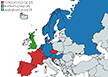
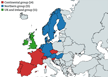
Removed GSOM

diff --git a/members/index.html b/members/index.html
@@ -494,30 +494,6 @@
 						</td>
 					</tr>
 				</table>
-				<h4 id="members-russia">
-					Russia
-				</h4>
-				<h5>
-					–  Northern European Group
-				</h5>
-				<table cellpadding="0" cellspacing="0" width="100%">
-					<tr>
-						<td valign="top" width="96"> <img alt="Julia Muvela" src="/members/photos/julia-muleva.jpg" /> </td>
-						<td valign="top" width="33%"> 
-						<dl> 
-							<dt><a href="&#109;&#97;&#105;&#108;&#116;&#111;&#58;&#109;&#117;&#108;&#101;&#118;&#97;&#64;&#103;&#115;&#111;&#109;&#46;&#115;&#112;&#98;&#117;&#46;&#114;&#117;">Julia Muleva</a></dt>
-							<dd>Director, Library</dd>
-							<dd>Graduate School of Management</dd>
-						</dl>
-						</td>
-						<td valign="top" width="52%"> 
-						<dl> 
-							<dt><a href="https://gsom.spbu.ru/en/">Graduate School of Management, St Petersburg University</a></dt>
-							<dd>St Petersburg</dd>
-						</dl>
-						</td>
-					</tr>
-				</table>
 				<h4 id="members-slovenia">
 					Slovenia
 				</h4>
@@ -622,27 +598,6 @@
 					–  Northern European Group
 				</h5>
 				<table cellpadding="0" cellspacing="0" width="100%">
-<!-- Removed whilst Gothenburg post vacant
-	<tr>
-		<td width="96" valign="top">
-			<img src="/members/photos/helena-siesjo.jpg" alt="Helena Siesj&ouml;">
-		</td>
-		<td width="33%" valign="top">
-			<dl>
-				<dt><a href="#">Helena Siesj&ouml;</a></dt>
-				<dd>Head Librarian</dd>
-				<dd>Economics Library</dd>
-			</dl>
-		</td>
-		<td width="52%" valign="top">
-			<dl>
-				<dt>University of Gothenburg (Gothenburg)</dt>
-				<dd><a href="http://handels.gu.se/english">School of Business, Economics and Law</a></dd>
-			</dl>
-		</td>
-	</tr>
-	-->
-<!-- Added Lund September 8, 2023 -->
 					<tr>
 						<td valign="top" width="96"> <img alt="Daniel Gunnarsson" src="/members/photos/daniel-gunnarsson.jpg" /> </td>
 						<td valign="top" width="33%"> 

diff --git a/libraries/index.html b/libraries/index.html
@@ -468,27 +468,6 @@
 	</tr>
 </table>
 
-<h4 id="members-russia">Russia</h4><h5>&ndash;&nbsp;&nbsp;<a href="groups/#group-northern">Northern European Group</a></h5>
-<table cellspacing="0" cellpadding="0" width="100%">	
-	<tr>
-		<td width="60%" valign="top">
-			<dl>
-				<dt><a href="https://gsom.spbu.ru/en/">Graduate School of Management</a>-  St Petersburg University</dt>
-				<dd><a href="https://gsom.spbu.ru/en/gsom/library/">GSOM Library</a></dd>
-				<dd><a href="https://gsom.spbu.ru/en/gsom/library/">Online catalogue</a></dd>
-			</dl>
-		</td>
-		<td width="40%" valign="top">
-			<ul class="vcard">
-  				<li class="organization-name fn">Graduate School of Management, St Petersburg University</li>
-  				<li class="street-address">Volkhovsky Per. 3</li>
-  				<li><span class="zip">199004</span> <span class="locality">St. Petersburg</span></li>
-				<li class="country">Russia</li>
-  				<li class="tel">Tel: +7 812 323 8443</li>
-			</ul>	
-		</td>
-	</tr>
-</table>
 
 <h4 id="members-slovenia">Slovenia</h4><h5>&ndash;&nbsp;&nbsp;<a href="groups/#group-continental">Continental Group</a></h5>
 <table cellspacing="0" cellpadding="0" width="100%">
@@ -886,7 +865,6 @@
 <li><a href="#members-netherlands">Netherlands</a></li>
 <li><a href="#members-norway">Norway</a></li>
 <li><a href="#members-portugal">Portugal</a></li>
-<li><a href="#members-russia">Russia</a></li>
 <li><a href="#members-slovenia">Slovenia</a></li>
 <li><a href="#members-spain">Spain</a></li>
 <li><a href="#members-sweden">Sweden</a></li>

diff --git a/libraries/groups/index.html b/libraries/groups/index.html
@@ -1405,7 +1405,6 @@
 <li><a href="#members-netherlands">Netherlands</a></li>
 <li><a href="#members-norway">Norway</a></li>
 <li><a href="#members-portugal">Portugal</a></li>
-<li><a href="#members-russia">Russia</a></li>
 <li><a href="#members-slovenia">Slovenia</a></li>
 <li><a href="#members-spain">Spain</a></li>
 <li><a href="#members-sweden">Sweden</a></li>
